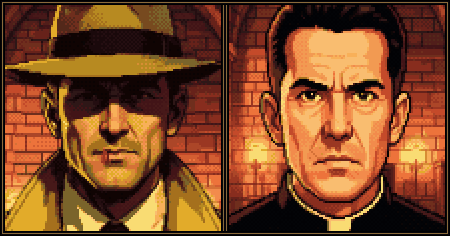
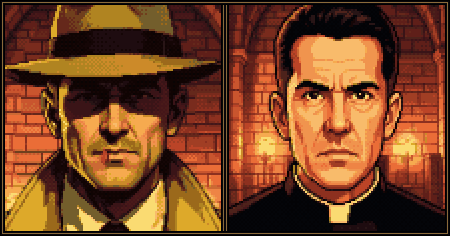
Church close-up: size Caleb's portrait after Micah's (#324)
### Preview (3x, nearest-neighbour)

**Before**

![before](https://github.com/user-attachments/assets/82288f0b-c1cb-4685-bac4-eadd06d6698c)

**After**

![after](https://github.com/user-attachments/assets/a979c5e9-493e-4ea9-a9d3-ec983affa61e)

diff --git a/tools/art/closeup.py b/tools/art/closeup.py
@@ -67,9 +67,8 @@ CHURCH_MICAH_SRC = os.path.join(ROOT, "tools", "art", "src", "church_micah.png")
 # the back wall's mortar lines behind Caleb's head, in his 1152x896 source; rows beyond them repeat CHURCH_ROW
 CHURCH_MORTAR = (166, 203, 230, 263, 286, 307, 343, 367, 388, 415, 446)
 CHURCH_ROW, CHURCH_BRICK = 27, 66
-# Caleb is zoomed so his face is a good part of his half, with his collar in view; Micah is zoomed so his face matches.
-CALEB_FACE_X, CALEB_FACE_W, CALEB_FACE_H, CALEB_EYES_Y = 568, 265, 225, 317
-CHURCH_CALEB_ZOOM = 1.67
+# Caleb's face centre, eye line and chin (the jaw line under his mouth) in his 1152x896 source.
+CALEB_FACE_X, CALEB_EYES_Y, CALEB_CHIN_Y = 568, 317, 562
 CHURCH_EYES = 0.40  # the eye line, as a fraction of each half's height
 MICAH_FACE_X, ELEANOR_FACE_X = 672, 665  # face centres in the 1344x768 sources
 # Face boxes in the sources (brow to chin, cheek to cheek) and the eye lines. Micah's picture is zoomed so his face
@@ -77,8 +76,11 @@ MICAH_FACE_X, ELEANOR_FACE_X = 672, 665  # face centres in the 1344x768 sources
 MICAH_FACE_W, MICAH_FACE_H, MICAH_EYES_Y = 260, 235, 265
 ELEANOR_FACE_W, ELEANOR_FACE_H, ELEANOR_EYES_Y = 280, 320, 245
 MICAH_ZOOM = ((ELEANOR_FACE_W * ELEANOR_FACE_H) / (MICAH_FACE_W * MICAH_FACE_H)) ** 0.5
-# Micah's crop in the cathedral: as many of his 768 rows as makes his face box the same share of the half as Caleb's.
-CHURCH_MICAH_ZOOM = (768 * CHURCH_CALEB_ZOOM / 896) * ((CALEB_FACE_W * CALEB_FACE_H) / (MICAH_FACE_W * MICAH_FACE_H)) ** 0.5
+MICAH_CHIN_Y = 485
+# The cathedral crops: Micah's sets the size, his hat brim to his collar; Caleb is zoomed so that, with the eye lines
+# level, his chin sits on Micah's chin line, so both heads fill the same share of their halves.
+CHURCH_MICAH_ZOOM = 1.414
+CHURCH_CALEB_ZOOM = (896 / 768) * CHURCH_MICAH_ZOOM * (MICAH_CHIN_Y - MICAH_EYES_Y) / (CALEB_CHIN_Y - CALEB_EYES_Y)
 # Rose's face in her 1344x768 doorway source, and Micah's zoom to match it in the Rose close-up.
 ROSE_FACE_X, ROSE_FACE_W, ROSE_FACE_H, ROSE_EYES_Y = 672, 250, 260, 270
 ROSE_MICAH_ZOOM = ((ROSE_FACE_W * ROSE_FACE_H) / (MICAH_FACE_W * MICAH_FACE_H)) ** 0.5

diff --git a/tests/art/test_church_closeup.py b/tests/art/test_church_closeup.py
@@ -53,12 +53,14 @@ class ChurchCloseupTests(unittest.TestCase):
         self.assertEqual(self.panel.size, (closeup.PW, closeup.PH))
         self.assertEqual(self.panel.size, Image.open(UI / "fire_escape_closeup.png").size)
 
-    def test_faces_are_matched(self):
+    def test_heads_are_matched(self):
+        """Eye lines level and chins on the same line, so both heads fill the same share of their halves."""
         caleb_ch = 896 / closeup.CHURCH_CALEB_ZOOM
         micah_ch = 768 / closeup.CHURCH_MICAH_ZOOM
-        caleb_face = (closeup.CALEB_FACE_W * closeup.CALEB_FACE_H) ** 0.5 / caleb_ch
-        micah_face = (closeup.MICAH_FACE_W * closeup.MICAH_FACE_H) ** 0.5 / micah_ch
-        self.assertAlmostEqual(caleb_face, micah_face, delta=0.005)
+        caleb_chin = (closeup.CALEB_CHIN_Y - closeup.CALEB_EYES_Y) / caleb_ch
+        micah_chin = (closeup.MICAH_CHIN_Y - closeup.MICAH_EYES_Y) / micah_ch
+        self.assertAlmostEqual(caleb_chin, micah_chin, delta=0.005)
+        self.assertLess(closeup.CHURCH_CALEB_ZOOM, 1.6, "zoomed out to his shoulders, not filling the half")
 
     def test_frame_bar_and_chunky_pixels(self):
         a = np.asarray(self.panel, dtype=float)
